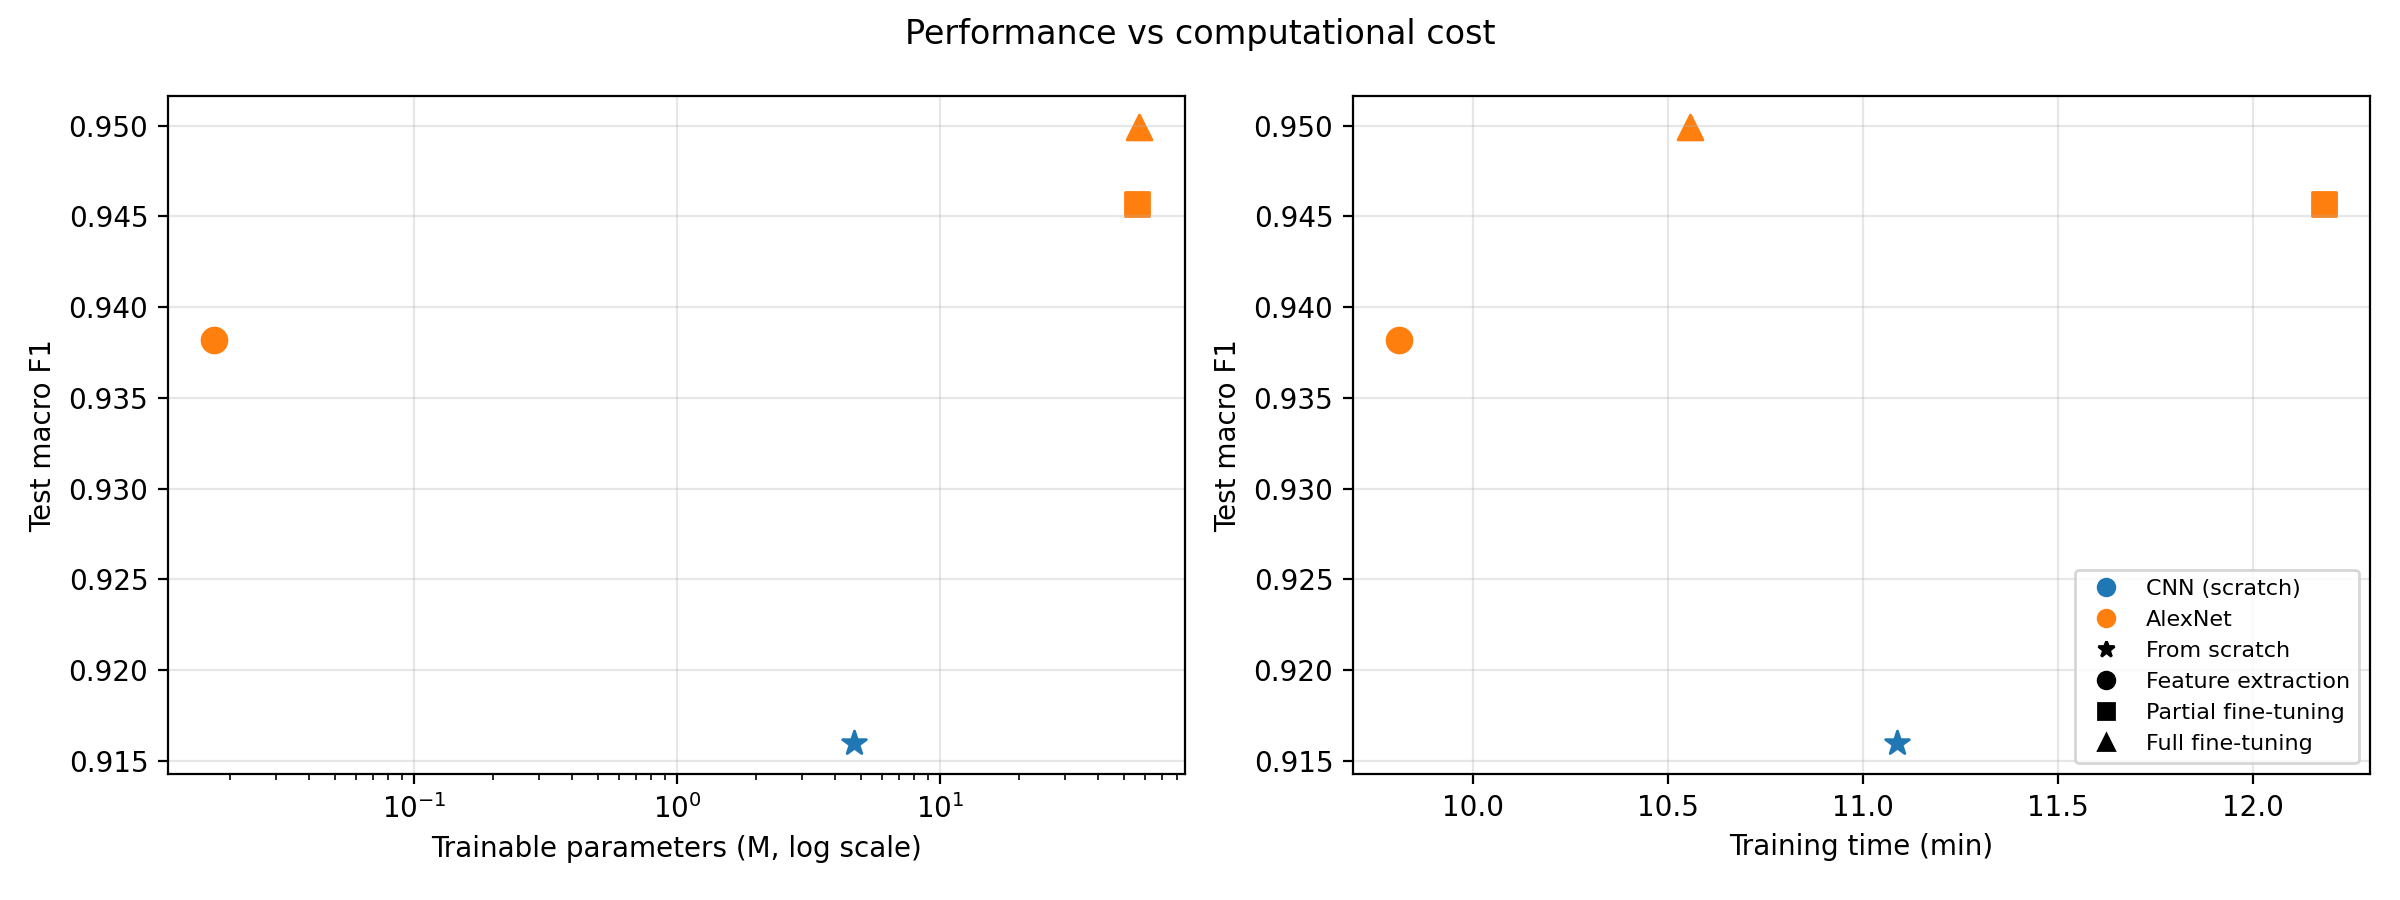
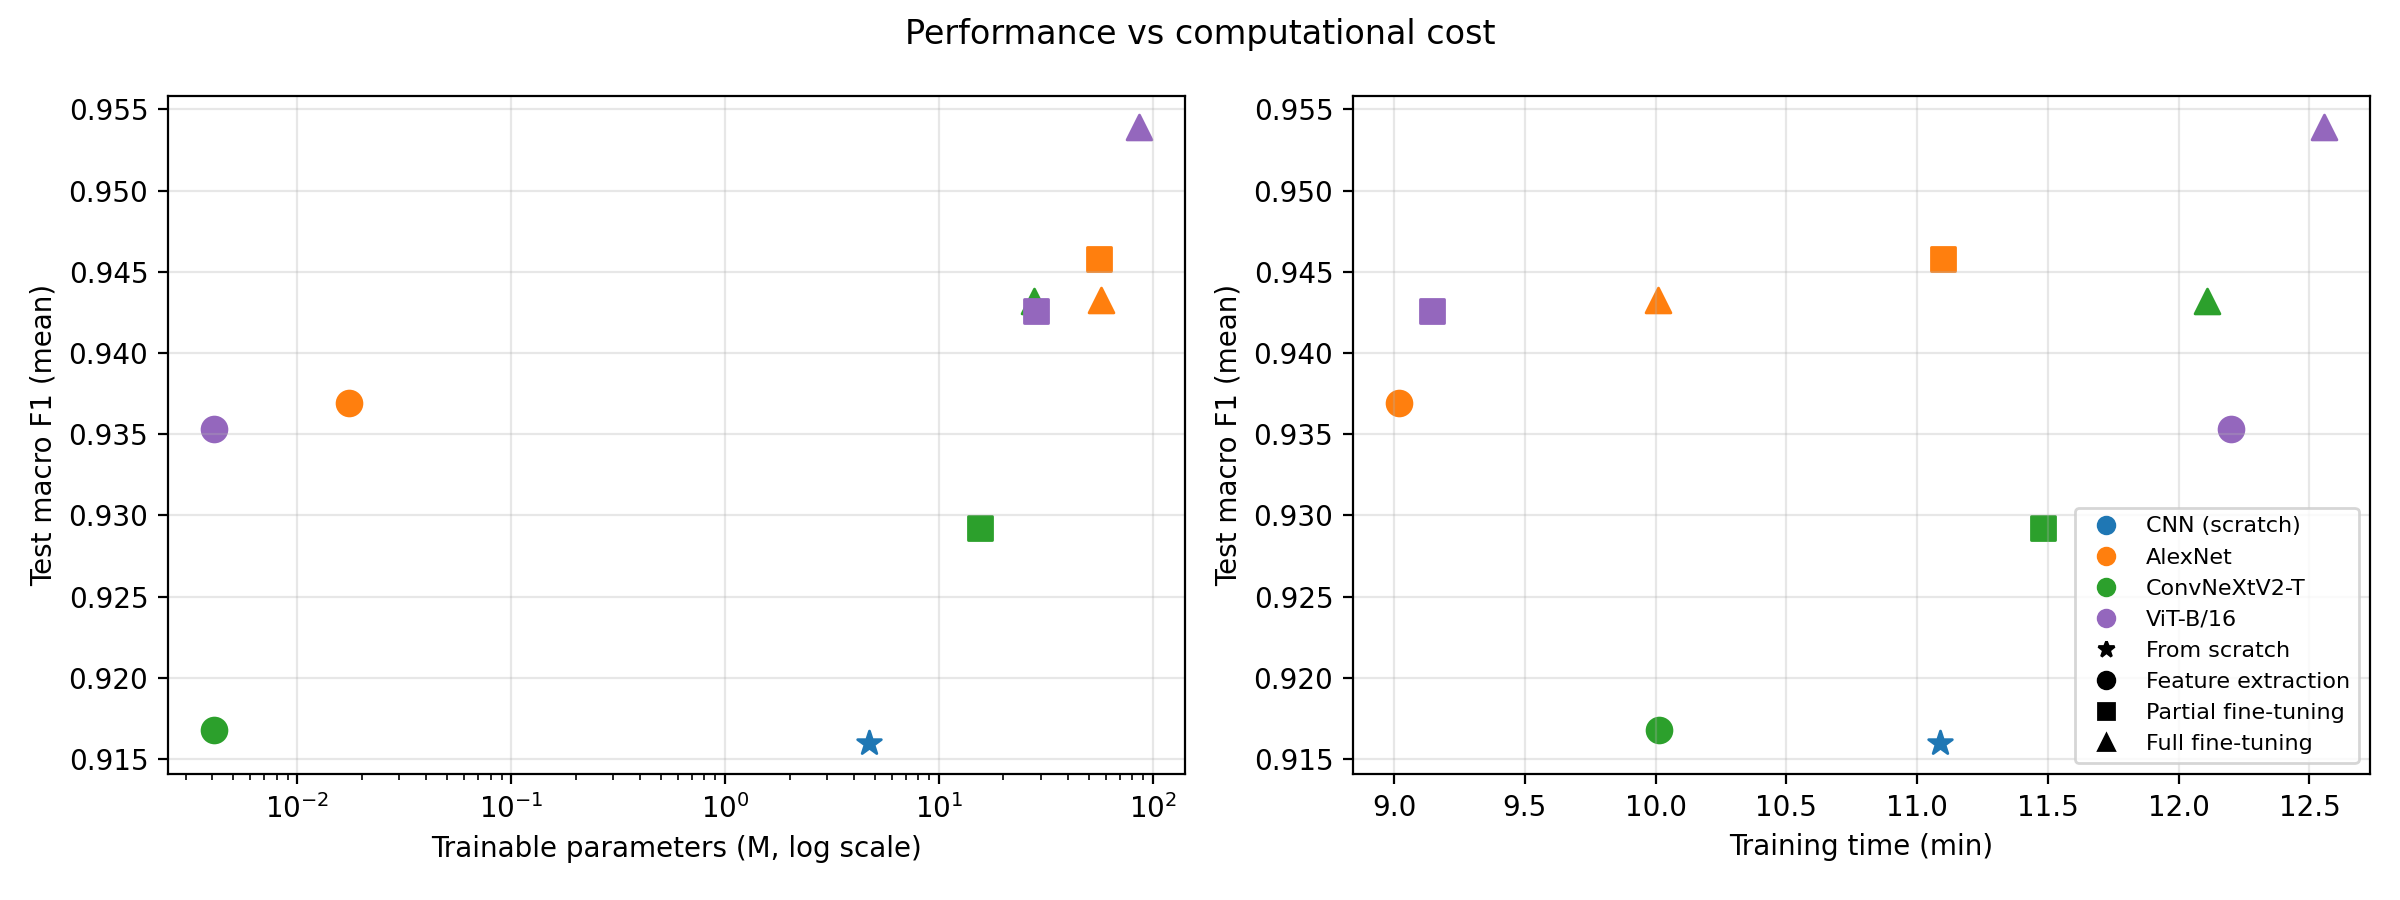
Results for 4 models (scratch CNN, AlexNet x3 runs, ConvNeXtV2, ViT-B/16): global table with mean ± std, ROC, confusion matrices, Grad-CAM

diff --git a/results/global_results.md b/results/global_results.md
@@ -1,6 +1,14 @@
-| Model | Strategy | Accuracy | Precision | Recall | F1-score | AUC | Params (M) | Trainable (M) | Training time (min) | Peak GPU mem (MB) | Latency (ms) | Best epoch |
-|---|---|---|---|---|---|---|---|---|---|---|---|---|
-| CNN (scratch) | From scratch | 0.9290 | 0.9244 | 0.9116 | 0.9160 | 0.9851 | 4.72 | 4.72 | 11.09 | 1128 | 2.53 | 28 |
-| AlexNet | Feature extraction | 0.9484 | 0.9500 | 0.9342 | 0.9382 | 0.9811 | 57.02 | 0.02 | 9.81 | 344 | 2.12 | 21 |
-| AlexNet | Partial fine-tuning | 0.9548 | 0.9551 | 0.9427 | 0.9457 | 0.9840 | 57.02 | 56.03 | 12.18 | 1110 | 2.11 | 30 |
-| AlexNet | Full fine-tuning | 0.9581 | 0.9607 | 0.9459 | **0.9499** | 0.9840 | 57.02 | 57.02 | 10.56 | 1125 | 2.13 | 19 |
+| Model | Strategy | Runs | Accuracy | Precision | Recall | F1-score | AUC | Params (M) | Trainable (M) | Training time (min) | Peak GPU mem (MB) | Latency (ms) | Best epoch |
+|---|---|---|---|---|---|---|---|---|---|---|---|---|---|
+| CNN (scratch) | From scratch | 1 | 0.9290 | 0.9244 | 0.9116 | 0.9160 | 0.9851 | 4.72 | 4.72 | 11.09 | 1128 | 2.53 | 28 |
+| AlexNet | Feature extraction | 3 | 0.9473 | 0.9485 | 0.9331 | 0.9369 ± 0.0018 | 0.9793 | 57.02 | 0.02 | 9.02 | 344 | 2.05 | 11 |
+| AlexNet | Partial fine-tuning | 3 | 0.9548 | 0.9572 | 0.9420 | 0.9458 ± 0.0041 | 0.9829 | 57.02 | 56.03 | 11.10 | 1110 | 2.11 | 30 |
+| AlexNet | Full fine-tuning | 3 | 0.9527 | 0.9545 | 0.9395 | 0.9432 ± 0.0062 | 0.9867 | 57.02 | 57.02 | 10.01 | 1125 | 2.07 | 18 |
+| ConvNeXtV2-T | Feature extraction | 1 | 0.9290 | 0.9221 | 0.9150 | 0.9168 | 0.9866 | 27.87 | 0.00 | 10.01 | 641 | 8.61 | 20 |
+| ConvNeXtV2-T | Partial fine-tuning | 1 | 0.9387 | 0.9303 | 0.9287 | 0.9292 | 0.9895 | 27.87 | 15.49 | 11.48 | 760 | 8.54 | 24 |
+| ConvNeXtV2-T | Full fine-tuning | 1 | 0.9516 | 0.9464 | 0.9414 | 0.9432 | 0.9949 | 27.87 | 27.87 | 12.11 | 3803 | 12.30 | 19 |
+| ViT-B/16 | Feature extraction | 1 | 0.9452 | 0.9402 | 0.9329 | 0.9353 | 0.9891 | 85.80 | 0.00 | 12.20 | 529 | 17.86 | 27 |
+| ViT-B/16 | Partial fine-tuning | 1 | 0.9516 | 0.9501 | 0.9394 | 0.9426 | 0.9887 | 85.80 | 28.36 | 9.14 | 1394 | 14.59 | 14 |
+| ViT-B/16 | Full fine-tuning | 1 | 0.9613 | 0.9633 | 0.9501 | **0.9539** | 0.9917 | 85.80 | 85.80 | 12.55 | 3292 | 15.47 | 19 |
+
+Metrics are the mean over the repeated runs (Runs > 1: mean ± std of the macro F1); figures use the median-F1 run of each model/strategy.

diff --git a/README.md b/README.md
@@ -15,7 +15,7 @@ under three transfer-learning strategies:
 Models are compared on accuracy, precision, recall, F1-score, ROC/AUC, number of parameters,
 training time and inference latency. Predictions are explained with Grad-CAM.
 
-> **Status:** project setup — data pipeline in progress. Results will be added once experiments are run.
+> **Status:** experiments in progress — 4 of 5 models trained (scratch CNN, AlexNet, ConvNeXtV2, ViT-B/16); NFNet-F1 running. Current results: [`results/global_results.md`](results/global_results.md).
 
 ## Dataset
 
